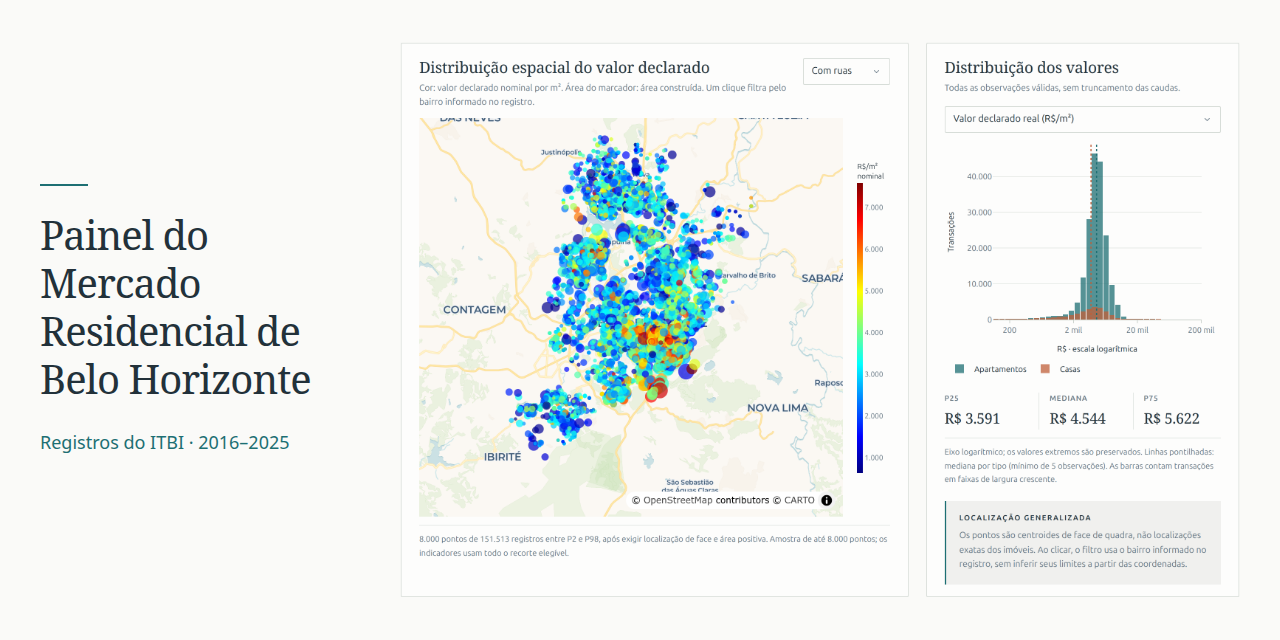
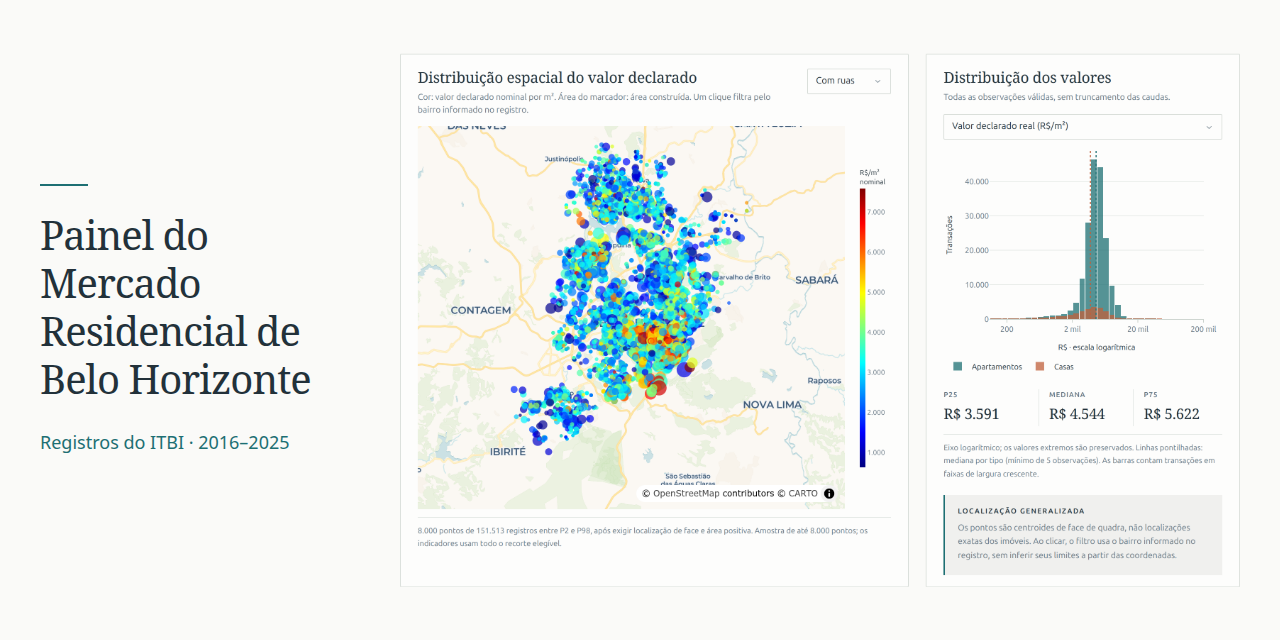
DOC: Finalise dashboard previews and data provenance
Capture the current overview and models from the real-data dashboard.
Refresh the social composition and pair the exact dataset revision and
checksum with a permanent source link.

diff --git a/docs/social-preview.html b/docs/social-preview.html
@@ -59,9 +59,9 @@
     <h1><span>Painel do</span> <span>Mercado</span> <span>Residencial de</span> <span>Belo Horizonte</span></h1>
     <p>Registros do ITBI · 2016–2025</p>
   </header>
-  <svg xmlns="http://www.w3.org/2000/svg" viewBox="94 1310 2276 1506"
+  <svg xmlns="http://www.w3.org/2000/svg" viewBox="12 1232 2368 1508"
        role="img" aria-label="Mapa do valor nominal por metro quadrado e distribuição do valor real por metro quadrado de apartamentos e casas de 2016 a 2025.">
-    <image href="images/panorama.png" width="2464" height="2856" />
+    <image href="images/panorama.png" width="2392" height="4986" />
   </svg>
 </main>
 </html>

diff --git a/README.md b/README.md
@@ -8,9 +8,9 @@ Mapas, distribuições e índices para explorar o mercado residencial de Belo Ho
 
 **[Acessar o painel interativo](https://bh-itbi-dashboard.onrender.com/)**
 
-![Panorama do painel com filtros, botão para copiar o link, indicadores, mapa do valor nominal por metro quadrado e distribuição do valor real por metro quadrado.](docs/images/panorama.png)
+![Panorama com filtros, indicadores, mapa do valor nominal por m², histograma do valor real por m² e comparações temporais e de distribuição por bairro.](docs/images/panorama.png)
 
-*Panorama geográfico, indicadores e distribuição dos valores declarados de apartamentos e casas no recorte padrão.*
+*Panorama dos valores declarados de apartamentos e casas no recorte padrão, com mapa, distribuições, séries mensais e trajetórias por bairro.*
 
 ![Índice hedônico em verde-petróleo com intervalo de confiança de 95%, média geométrica bruta pontilhada e faixas de composição por bairro, área, idade e tipo.](docs/images/indice-hedonico.png)
 
@@ -34,7 +34,9 @@ Acesse [http://127.0.0.1:8050/](http://127.0.0.1:8050/) no navegador.
 
 ## Dados
 
-Fonte: Prefeitura de Belo Horizonte, dados abertos (CC BY 4.0), tratados e disponibilizados em [pracadata/brazil-itbi](https://huggingface.co/datasets/pracadata/brazil-itbi). Projeto derivado e não oficial.
+Os dados abertos (CC BY 4.0) são da Prefeitura de Belo Horizonte. O painel é um projeto derivado e não oficial que usa a [base processada de Belo Horizonte no Hugging Face](https://huggingface.co/datasets/pracadata/brazil-itbi/blob/5908d77ed56fc9adb6dbafaf2cb38f34245bcd76/data/belo_horizonte_transactions.parquet).
+
[1 lines of base64/hex data omitted]
 
 Os valores são declarados ao ITBI e não representam necessariamente preços de venda verificados.
 
